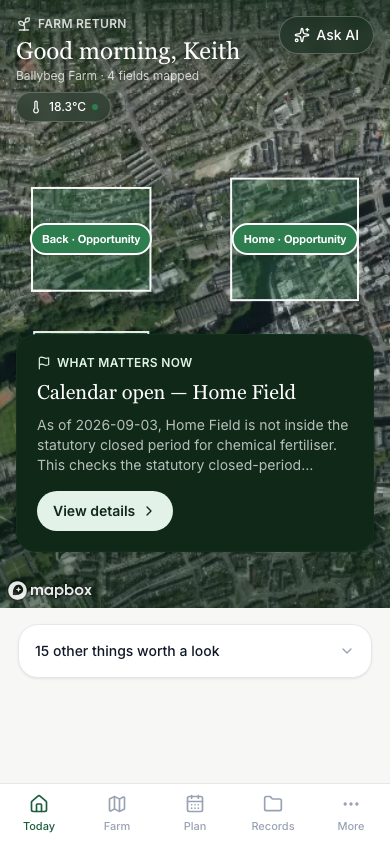
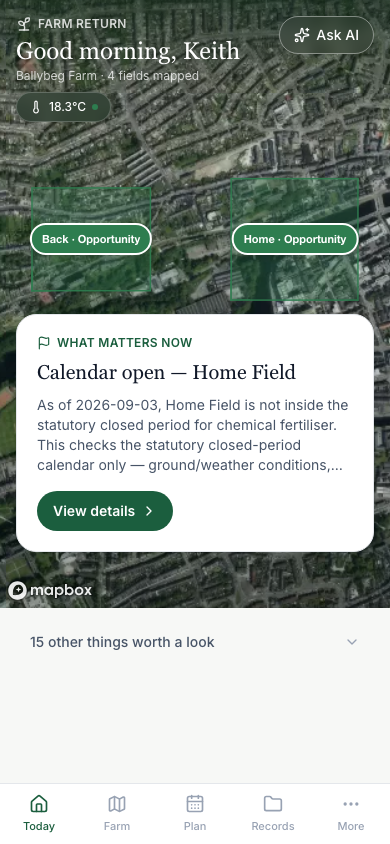
Phase V1 round 5: light card surface, calmer boundaries, quieter chrome
Codex visual audit round 4 (fidelity 5.6/10, still REDESIGN REQUIRED,
dashboard drift MEDIUM) — the recurring "predominantly dark and
tactical despite the required light system" finding, plus three others:

- High: PromptCard gained a `variant="light"` (white/warm surface,
  fr-ink text, green CTA) used only on Today's map overlay — matches
  spec §3's "light legible cards over real imagery" literally, instead
  of reusing the card's original dark-green treatment there. Plan keeps
  `variant="dark"` (the default) — untouched, not part of this phase.
- Medium: field boundaries were a solid white 2px outline, read as a
  "GIS overlay". Now glow in their own real status colour (same tone
  match expression as the fill), thinner unless selected.
- Medium: the collapsed "N other things" row had its own card
  border/shadow, reading as a second surface floating in empty space.
  Now a chromeless inline row on the page background in its collapsed
  state (the expanded list keeps a Card for real containment).
- Low: Ask AI's filled pill was nearly as visually assertive as the
  greeting. Dropped to a border-only, no-fill treatment.

Quality gate (test/typecheck/lint/build) green: 116 files / 1509 tests
passing.

Claude-Session: https://claude.ai/code/session_017cs1M5kSyWgGzWDkWLoi48

diff --git a/src/app/(app)/today/page.tsx b/src/app/(app)/today/page.tsx
@@ -215,9 +215,13 @@ export default function TodayPage() {
                   {farm.name} · {fields.length} {fields.length === 1 ? "field" : "fields"} mapped
                 </p>
               </div>
+              {/* Codex audit round 4: "nearly as visually assertive as
+                  the identity header" — dropped to a border-only pill,
+                  no fill, so it reads as a persistent secondary
+                  affordance rather than a competing high-contrast button. */}
               <AskAIButton
                 context={askAIContext}
-                className="shrink-0 border-white/25 bg-fr-green-900/50 text-white backdrop-blur-sm hover:bg-fr-green-900/65"
+                className="shrink-0 border-white/40 bg-transparent text-white backdrop-blur-sm hover:bg-white/10"
               />
             </div>
             <div className="self-start">
@@ -230,17 +234,22 @@ export default function TodayPage() {
               floating card (`lg:max-w-md`) instead of spanning the whole
               surface, so the farm stays visible around it, not just
               above it. */}
-          <div className="absolute inset-x-0 bottom-0 bg-gradient-to-t from-fr-green-900/45 to-transparent px-4 pb-14 pt-10">
+          <div className="absolute inset-x-0 bottom-0 bg-gradient-to-t from-black/25 to-transparent px-4 pb-14 pt-10">
             {!mounted ? (
-              <div className="animate-pulse rounded-fr-card bg-fr-green-900/40 p-5 lg:max-w-md">
-                <div className="h-5 w-40 rounded bg-white/20" />
-                <div className="mt-3 h-4 w-full rounded bg-white/20" />
+              <div className="animate-pulse rounded-fr-card bg-fr-surface p-5 shadow-fr-card lg:max-w-md">
+                <div className="h-5 w-40 rounded bg-fr-surface-alt" />
+                <div className="mt-3 h-4 w-full rounded bg-fr-surface-alt" />
               </div>
             ) : primaryPrompt ? (
-              <PromptCard prompt={primaryPrompt} onViewDetails={() => setOpenPrompt(primaryPrompt)} className="lg:max-w-md" />
+              <PromptCard
+                prompt={primaryPrompt}
+                onViewDetails={() => setOpenPrompt(primaryPrompt)}
+                variant="light"
+                className="lg:max-w-md"
+              />
             ) : (
-              <div className="rounded-fr-card border border-white/15 bg-fr-green-900/40 p-5 backdrop-blur-sm lg:max-w-md">
-                <p className="text-sm text-white/90">
+              <div className="rounded-fr-card border border-fr-border bg-fr-surface p-5 shadow-fr-card lg:max-w-md">
+                <p className="text-sm text-fr-ink-600">
                   {fields.length === 0
                     ? "Map a field to start seeing real Prompts here."
                     : "Nothing needs your attention right now."}
@@ -259,34 +268,37 @@ export default function TodayPage() {
             dominant thing on the screen; everything else is a single
             tap of progressive disclosure away, not pre-expanded. */}
         {mounted && secondaryPrompts.length > 0 ? (
-          <Card className={secondaryOpen ? undefined : "p-0"}>
-            {secondaryOpen ? (
-              <>
-                <CardHeader>
-                  <CardTitle>Also worth a look</CardTitle>
-                  <button type="button" onClick={() => setSecondaryOpen(false)} className="text-xs font-medium text-fr-ink-600">
-                    Hide
-                  </button>
-                </CardHeader>
-                <div>
-                  {secondaryPrompts.slice(0, 5).map((p) => (
-                    <PromptListRow key={p.id} prompt={p} onViewDetails={() => setOpenPrompt(p)} />
-                  ))}
-                </div>
-              </>
-            ) : (
-              <button
-                type="button"
-                onClick={() => setSecondaryOpen(true)}
-                className="flex w-full items-center justify-between gap-3 p-4 text-left"
-              >
-                <span className="text-sm font-medium text-fr-ink-900">
-                  {secondaryPrompts.length} other {secondaryPrompts.length === 1 ? "thing" : "things"} worth a look
-                </span>
-                <ChevronDown className="size-4 text-fr-ink-400" />
-              </button>
-            )}
-          </Card>
+          secondaryOpen ? (
+            <Card>
+              <CardHeader>
+                <CardTitle>Also worth a look</CardTitle>
+                <button type="button" onClick={() => setSecondaryOpen(false)} className="text-xs font-medium text-fr-ink-600">
+                  Hide
+                </button>
+              </CardHeader>
+              <div>
+                {secondaryPrompts.slice(0, 5).map((p) => (
+                  <PromptListRow key={p.id} prompt={p} onViewDetails={() => setOpenPrompt(p)} />
+                ))}
+              </div>
+            </Card>
+          ) : (
+            // Codex audit round 4: a bordered/shadowed card here, sitting
+            // alone below the map, read as a second disconnected surface
+            // floating in otherwise-empty space. Collapsed, this is now a
+            // plain inline row on the page's own background — no card
+            // chrome to compete with the farm world above it.
+            <button
+              type="button"
+              onClick={() => setSecondaryOpen(true)}
+              className="flex w-full items-center justify-between gap-3 px-3 py-2 text-left"
+            >
+              <span className="text-sm font-medium text-fr-ink-600">
+                {secondaryPrompts.length} other {secondaryPrompts.length === 1 ? "thing" : "things"} worth a look
+              </span>
+              <ChevronDown className="size-4 text-fr-ink-400" />
+            </button>
+          )
         ) : null}
       </div>
 

diff --git a/src/components/next/PromptCard.tsx b/src/components/next/PromptCard.tsx
@@ -18,25 +18,55 @@ import { cn } from "@/lib/cn";
  * persistence" entry), so this card must not offer a button that implies
  * one gets created. "View details" opens the real Expanded Prompt sheet,
  * where a genuine Accept/Dismiss decision is recorded instead.
+ *
+ * `variant="light"` (Codex audit rounds 3-4, Phase V1 Today: "remains
+ * predominantly dark and tactical despite the required light, warm
+ * system") — a white/warm card floating on real map imagery, matching
+ * spec §3's own "light legible cards over real imagery" pattern, instead
+ * of this card's original dark-green treatment. `variant="dark"` (the
+ * default) is unchanged — Plan's own use of this card isn't part of this
+ * rebuild phase yet.
  */
-export function PromptCard({ prompt, onViewDetails, className }: { prompt: Prompt; onViewDetails: () => void; className?: string }) {
+export function PromptCard({
+  prompt,
+  onViewDetails,
+  variant = "dark",
+  className,
+}: {
+  prompt: Prompt;
+  onViewDetails: () => void;
+  variant?: "dark" | "light";
+  className?: string;
+}) {
+  const light = variant === "light";
   return (
     <div
       className={cn(
-        "relative overflow-hidden rounded-fr-card border border-fr-green-700/15 bg-fr-green-900 p-5 text-white shadow-fr-card",
+        "relative overflow-hidden rounded-fr-card border p-5 shadow-fr-card",
+        light ? "border-fr-border bg-fr-surface text-fr-ink-900" : "border-fr-green-700/15 bg-fr-green-900 text-white",
         className,
       )}
     >
-      <span className="mb-2 flex items-center gap-1.5 text-xs font-semibold uppercase tracking-wide text-fr-green-100">
+      <span
+        className={cn(
+          "mb-2 flex items-center gap-1.5 text-xs font-semibold uppercase tracking-wide",
+          light ? "text-fr-green-700" : "text-fr-green-100",
+        )}
+      >
         <Flag className="size-3.5" />
         What matters now
       </span>
-      <p className="font-display text-xl leading-snug text-white">{prompt.title}</p>
-      <p className="mt-2 line-clamp-3 text-sm text-white/70">{prompt.description}</p>
+      <p className={cn("font-display text-xl leading-snug", light ? "text-fr-ink-900" : "text-white")}>{prompt.title}</p>
+      <p className={cn("mt-2 text-sm", light ? "line-clamp-4 text-fr-ink-600" : "line-clamp-3 text-white/70")}>
+        {prompt.description}
+      </p>
       <button
         type="button"
         onClick={onViewDetails}
-        className="mt-4 inline-flex items-center gap-1.5 rounded-full bg-fr-green-100 px-4 py-2.5 text-sm font-semibold text-fr-green-900"
+        className={cn(
+          "mt-4 inline-flex items-center gap-1.5 rounded-full px-4 py-2.5 text-sm font-semibold",
+          light ? "bg-fr-green-700 text-white" : "bg-fr-green-100 text-fr-green-900",
+        )}
       >
         View details
         <ChevronRight className="size-4" />

diff --git a/src/components/farm/MapHero.tsx b/src/components/farm/MapHero.tsx
@@ -168,9 +168,19 @@ export function MapHero({
         type: "line",
         source: "fr-fields",
         paint: {
-          "line-color": "#ffffff",
-          "line-width": ["case", ["==", ["get", "fieldId"], selectedFieldId ?? ""], 3, 2],
-          "line-opacity": 0.95,
+          // Codex audit round 4 (Phase V1): a solid white 2px outline
+          // read as a "GIS overlay" rather than a highlighted place —
+          // the boundary now glows in its own real status colour (same
+          // match expression as the fill) instead of a technical white
+          // line, thinner unless selected.
+          "line-color": [
+            "match",
+            ["get", "tone"],
+            ...Object.entries(toneColor).flatMap(([tone, color]) => [tone, color]),
+            "#ffffff",
+          ],
+          "line-width": ["case", ["==", ["get", "fieldId"], selectedFieldId ?? ""], 3, 1.5],
+          "line-opacity": 0.9,
         },
       });
       if (onSelectFieldRef.current) {
